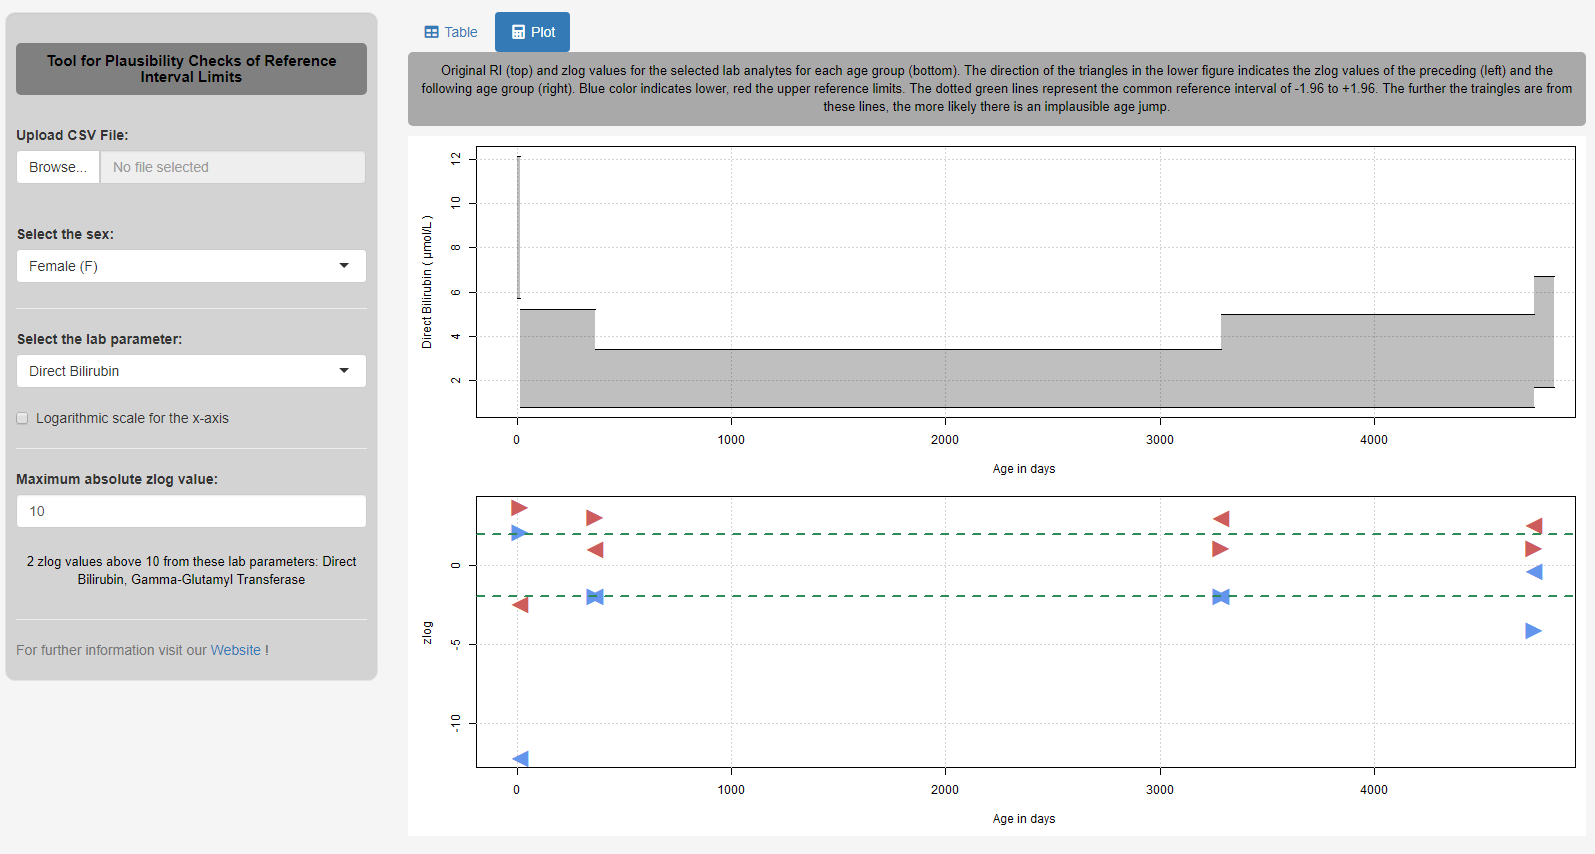
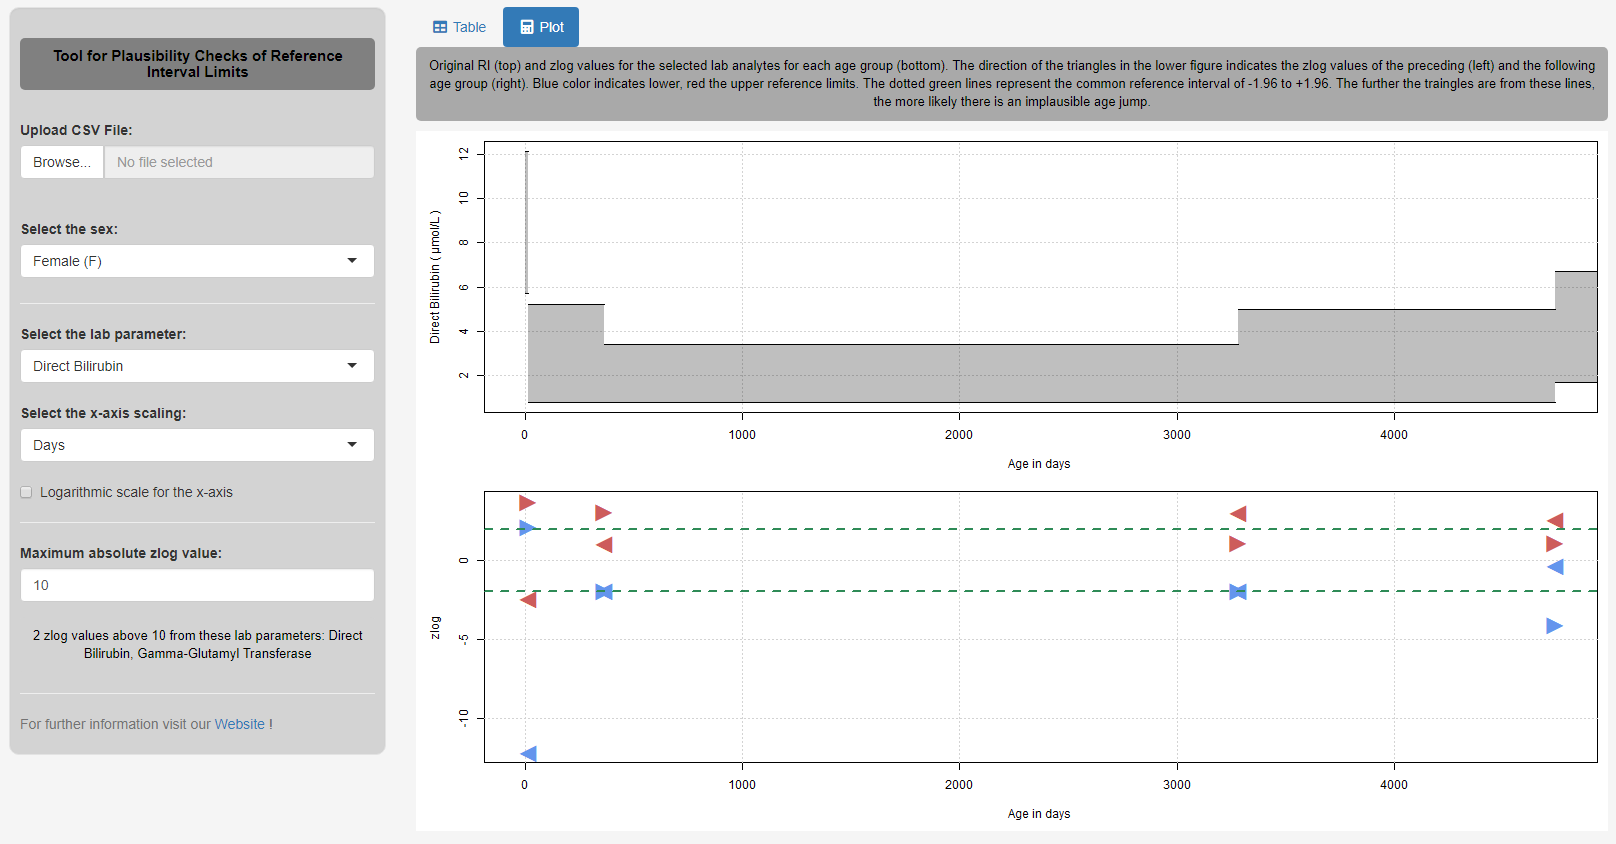
Added: More options for x-axis (days, years, days/years)

diff --git a/docs/guide.md b/docs/guide.md
@@ -27,7 +27,7 @@ If information about the lower or upper limit is missing, the info is displayed 
 
 3)	In Plot: Select the lab parameter
 
-4)	In Plot: Select if the x-axis should be logarithmic
+4)	In Plot: Select which x-axis scaling should be displayed and if this should be logarithmic
 
 5)	Select the maximum zlog value for quick determination of very high zlog values (Example with the preloaded CALIPER-Dataset)
 
